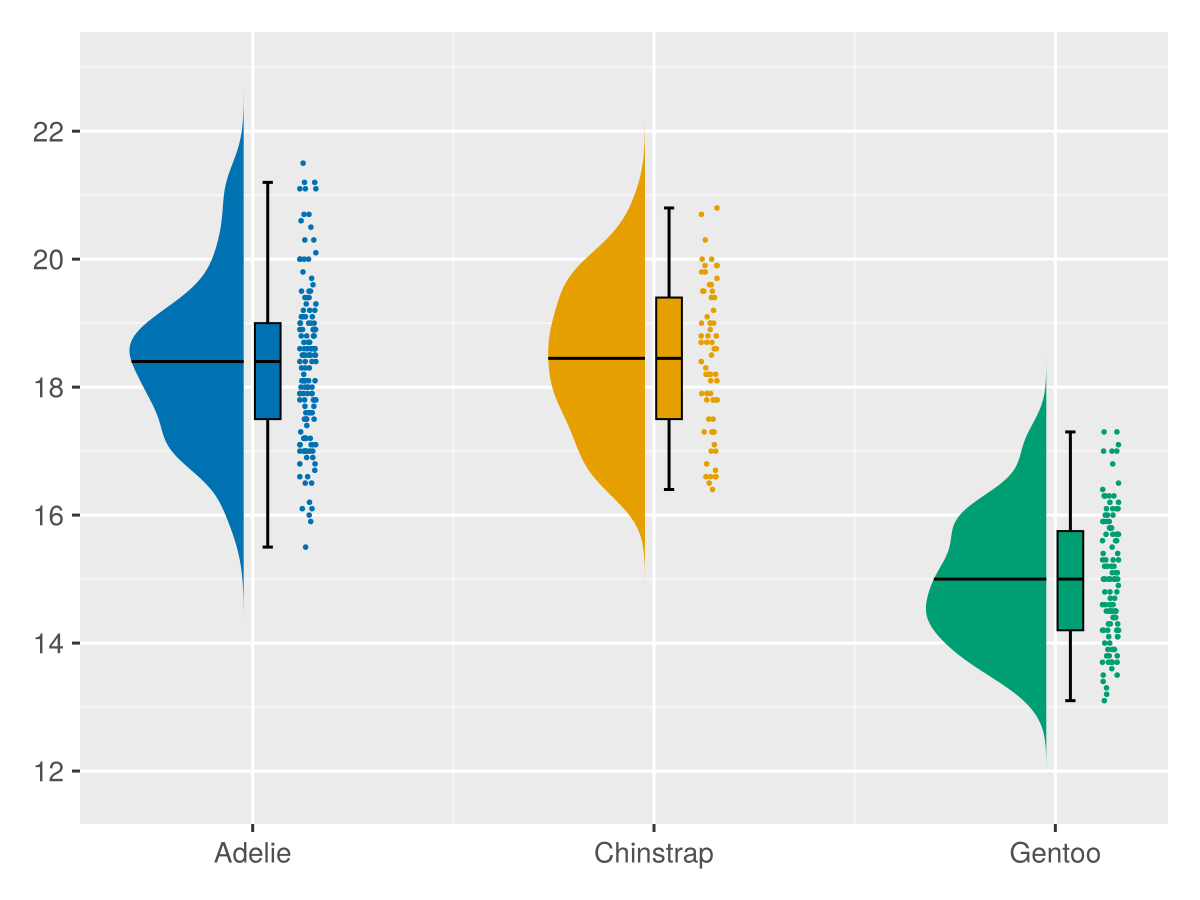
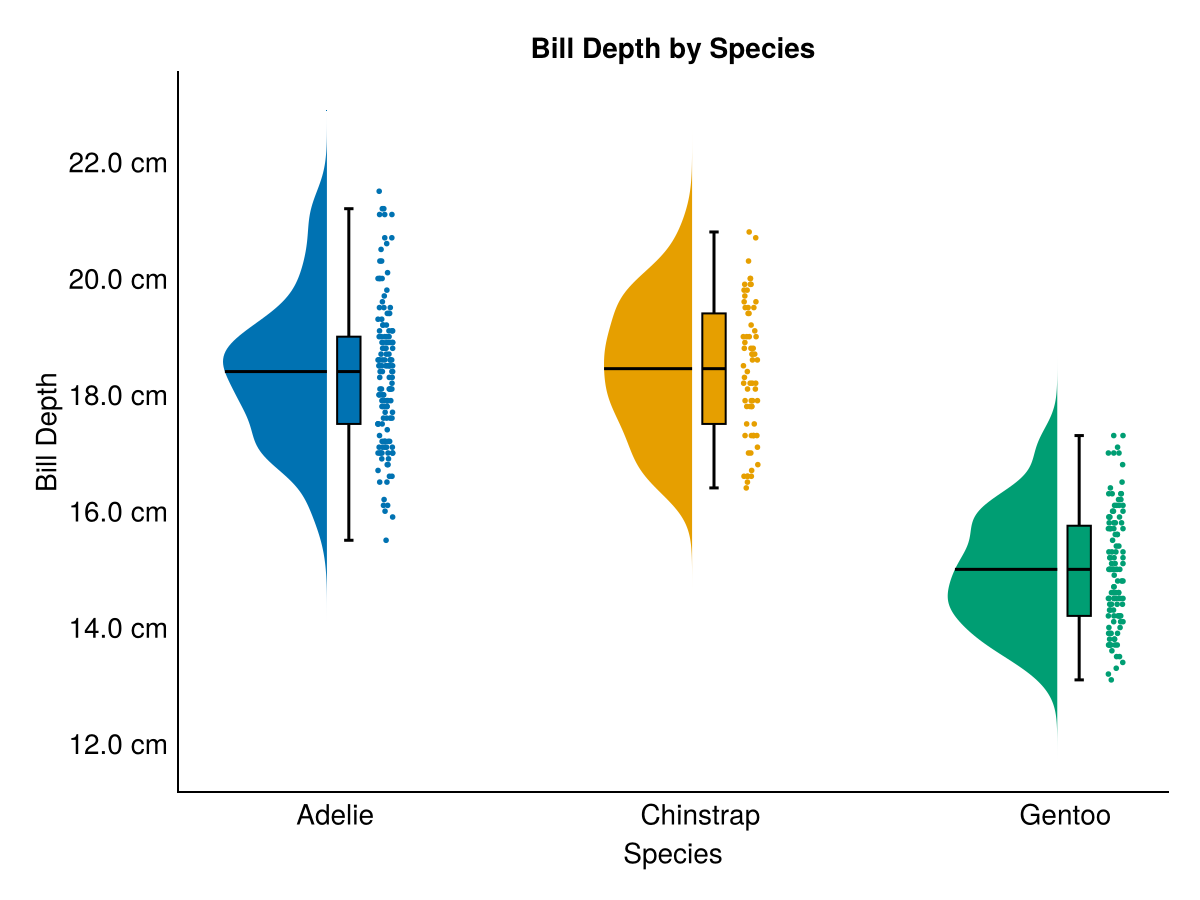
raincloud example updates

diff --git a/README.md b/README.md
@@ -153,7 +153,10 @@ Add basic support for any Makie plot using `geom_template(name, required_aes, ma
 geom_raincloud = geom_template("geom_raincloud", ["x", "y"], :RainClouds)
 
 ggplot(penguins) + 
-    geom_raincloud(aes(x = :species, y = :bill_depth_mm, color = :species), size = 4)
+    geom_raincloud(aes(x = :species, y = :bill_depth_mm, color = :species), size = 4) +
+    scale_y_continuous(labels = "{:.1f} cm") + 
+    labs(title = "Bill Depth by Species", x = "Species", y = "Bill Depth") +
+    theme_minimal()
 ```
 ![](assets/raincloud.png)
 
